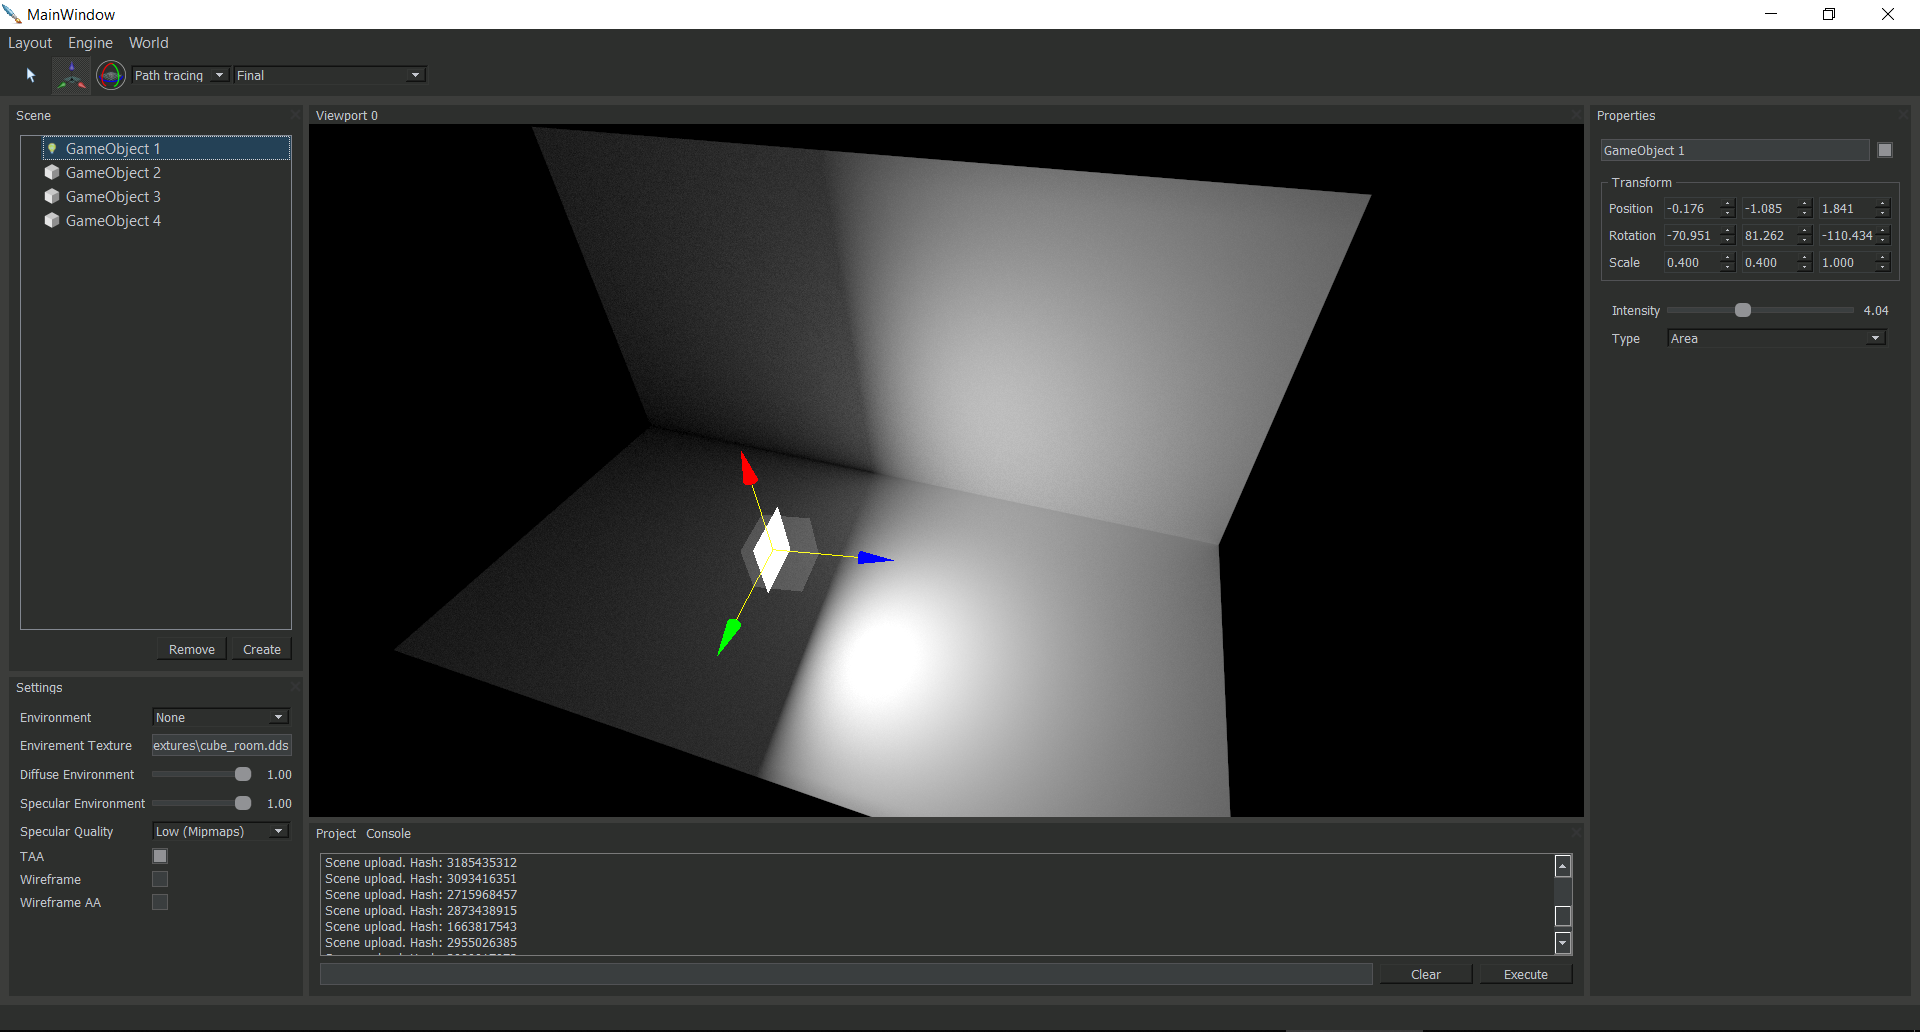
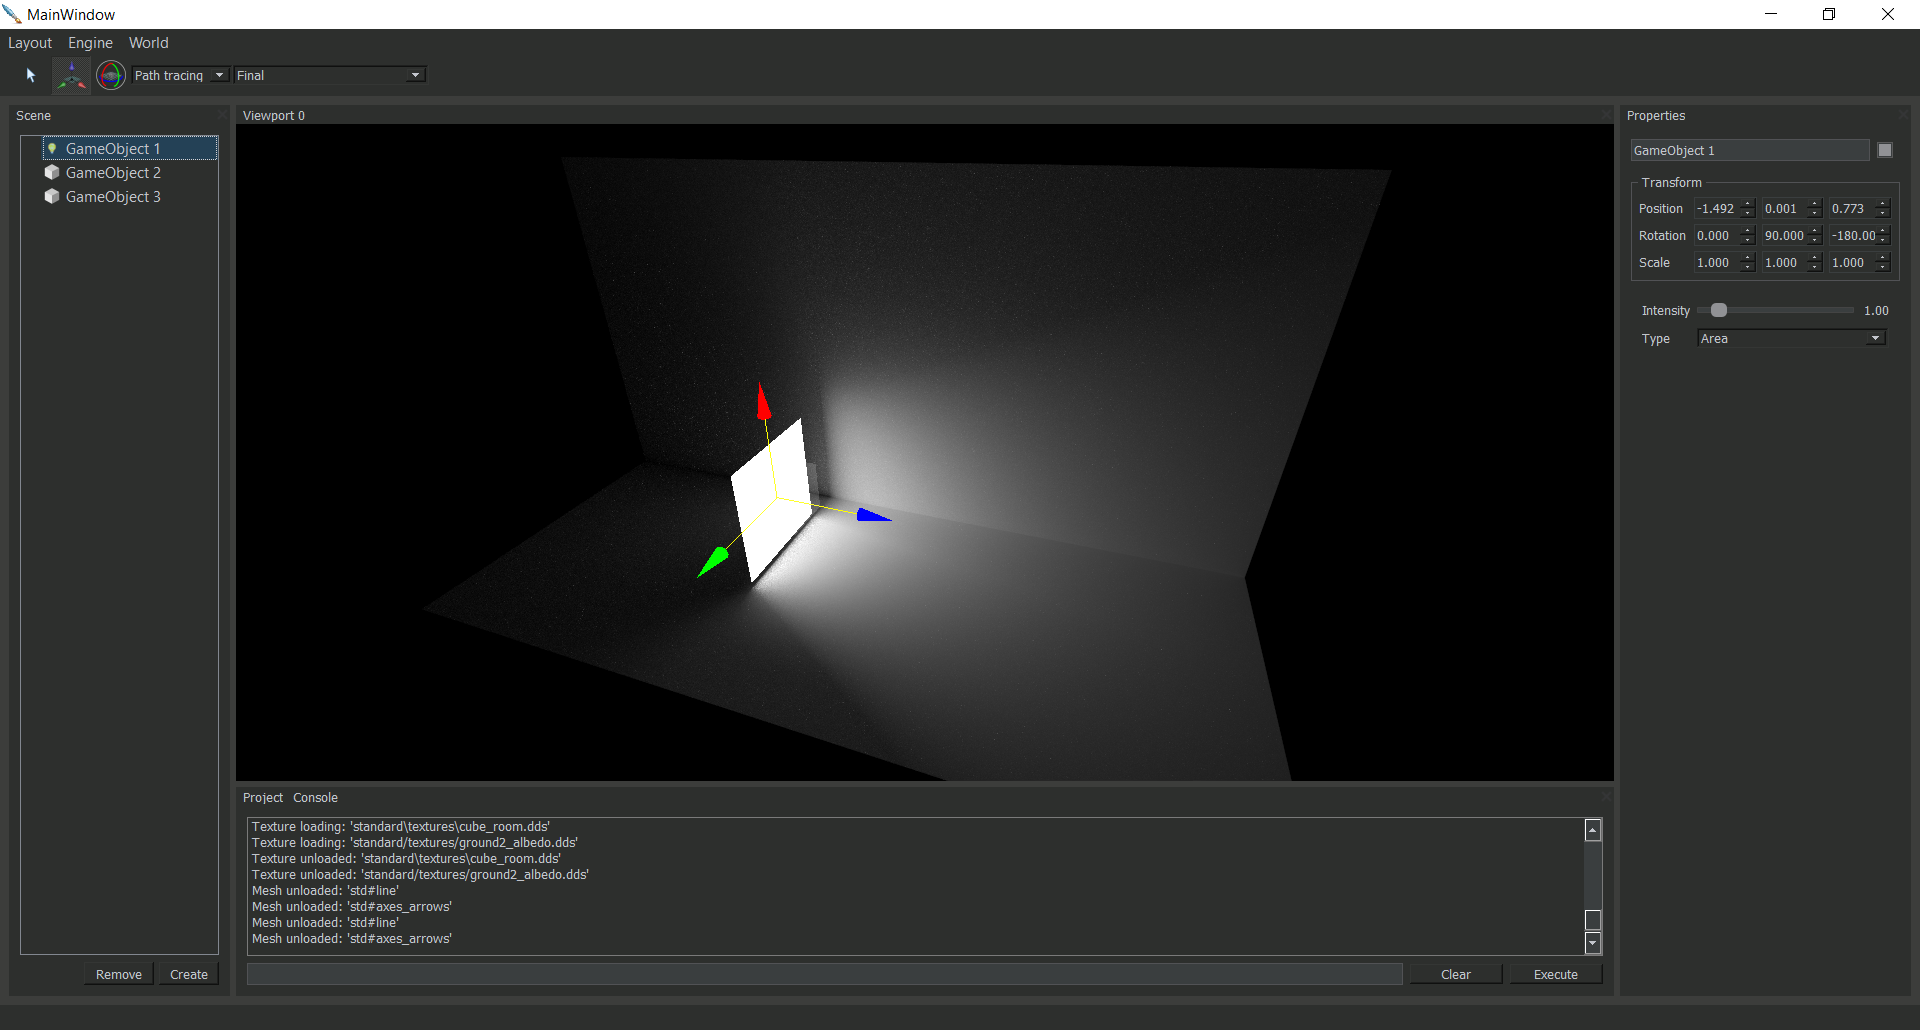
correct render back area light.

diff --git a/src/engine/render_paths/render_path_base.cpp b/src/engine/render_paths/render_path_base.cpp
@@ -32,6 +32,7 @@ void RenderPathBase::draw_AreaLightEmblems(const Render::RenderScene& scene)
 {
 	if (Shader* shader = render->GetShader("primitive.hlsl", render->fullScreen()))
 	{
+		CORE_RENDER->SetCullingMode(CULLING_MODE::BACK);
 		CORE_RENDER->SetDepthTest(1);
 		CORE_RENDER->SetShader(shader);
 
@@ -50,6 +51,7 @@ void RenderPathBase::draw_AreaLightEmblems(const Render::RenderScene& scene)
 			CORE_RENDER->Draw(render->fullScreen(), 1);
 		}
 		CORE_RENDER->SetDepthTest(0);
+		CORE_RENDER->SetCullingMode(CULLING_MODE::NONE);
 	}
 }
 

diff --git a/include/common.h b/include/common.h
@@ -255,7 +255,7 @@ enum class BLEND_FACTOR
 
 enum class CULLING_MODE
 {
-	NONE = 0,
+	NONE = 1,
 	FRONT,
 	BACK	
 };
